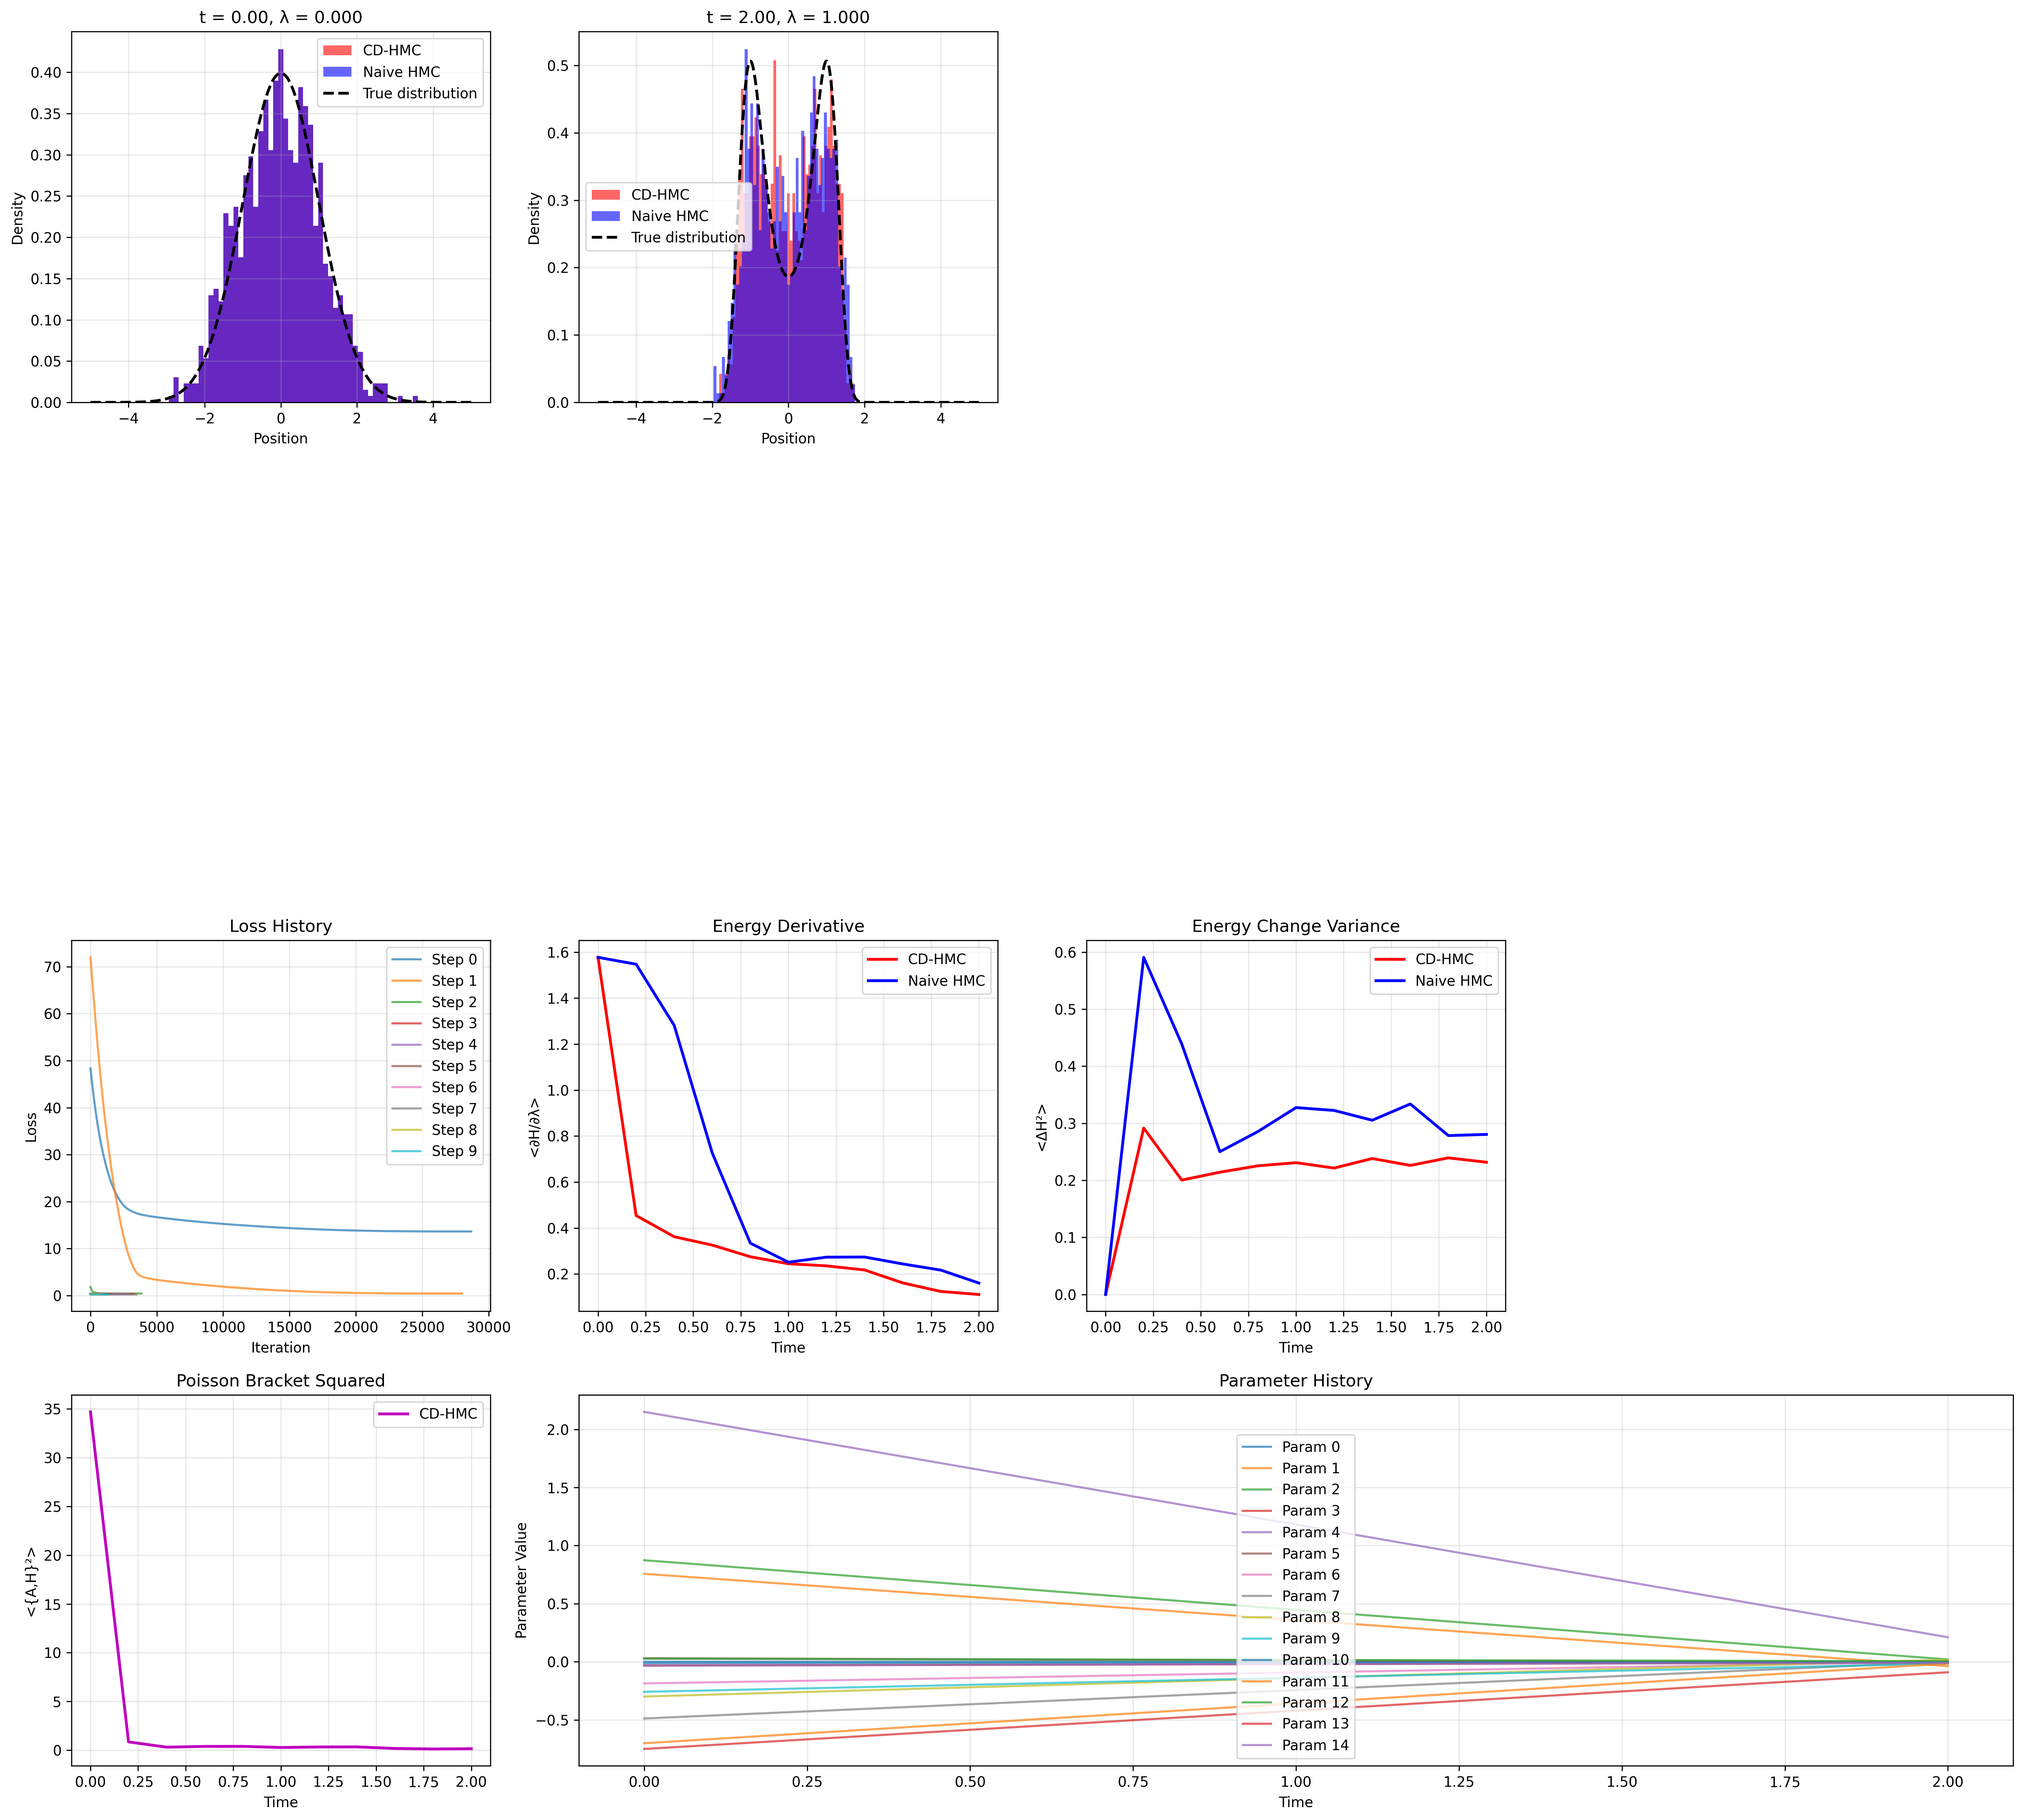
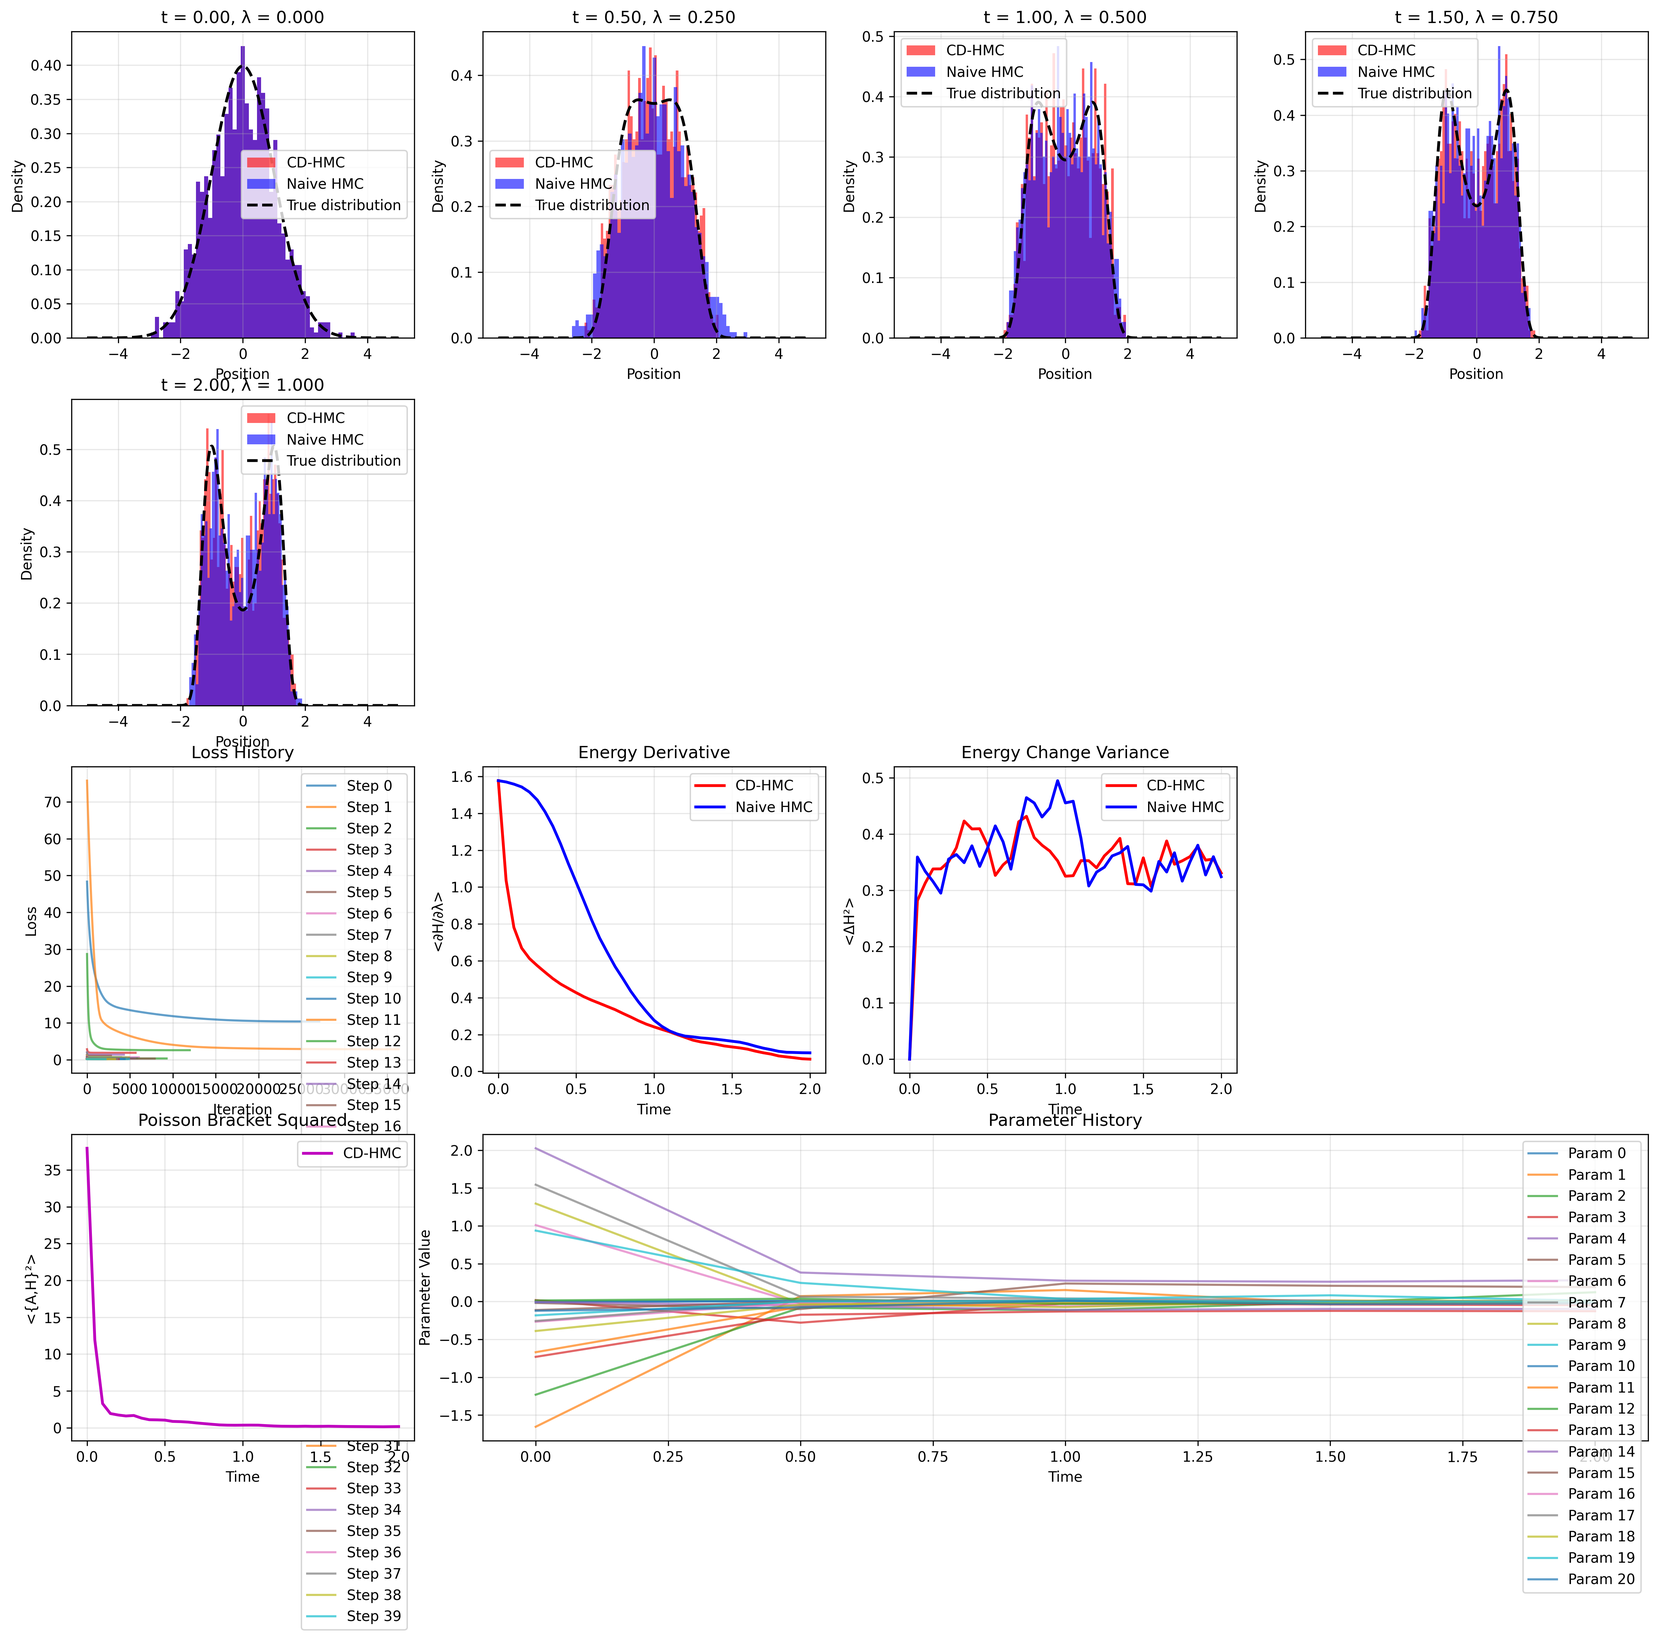
a double well ridge plot that looks right

diff --git a/main.py b/main.py
@@ -152,8 +152,8 @@ def create_comparison_plots(all_snapshots, delta_t, make_V, lam_fn, system_name,
 def main():
     # Set up the system
     # system_name = "gaussian_moving_mean"
-    system_name = "gaussian_annealing"
-    # system_name = "double_well"
+    # system_name = "gaussian_annealing"
+    system_name = "double_well"
     make_T, make_V, system_description, dim = get_system(system_name)
     
     # Define lambda functions
@@ -176,7 +176,7 @@ def main():
     ess_threshold = 0.5
     
     # Create ansatz
-    ansatz = PolynomialAnsatz(max_degree=2, dim=dim)
+    ansatz = PolynomialAnsatz(max_degree=5, dim=dim)
     
     # Storage for all simulation results
     successful_simulations = {}
